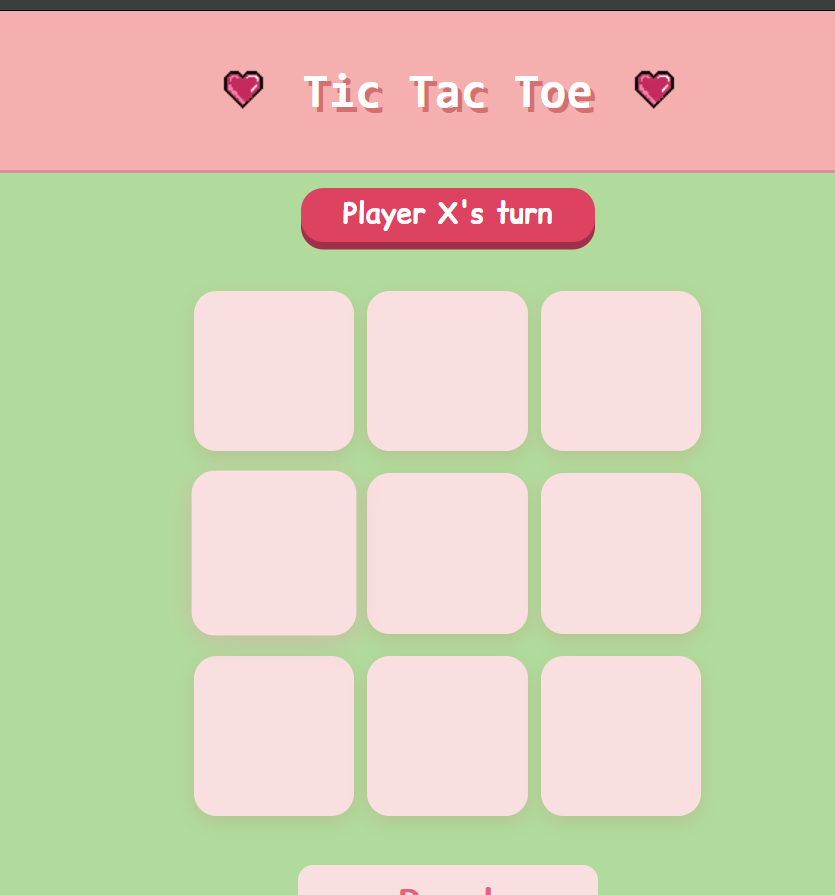
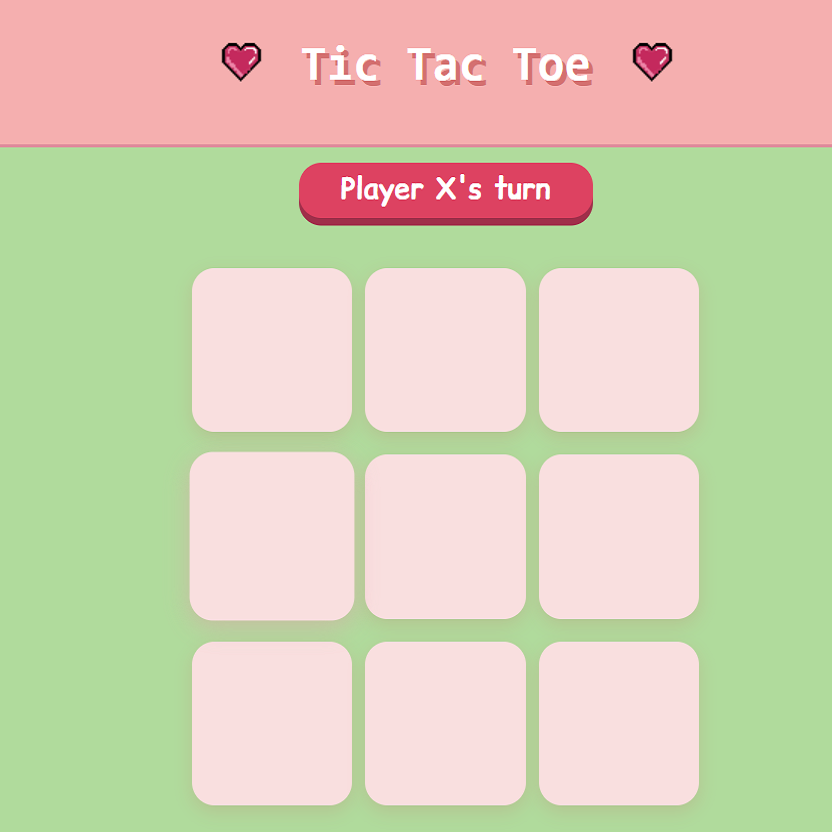
basic styling done

diff --git a/project.css b/project.css
@@ -1,3 +1,56 @@
 body{
-    
+    margin: 0;
+    background-color: rgb(236 255 235);
+  font-family: "Chewy", system-ui;
+  color: rgb(255, 255, 255);
+  padding-bottom: 60px;
+}
+
+.header{
+    margin-bottom: 25px;
+    display: flex;
+    justify-content: center;
+    gap: 25px;
+    background-color: rgb(53, 153, 48);
+      font-weight: 900;
+
+}
+.projects-list{
+    display: flex;
+    flex-direction: column;
+    align-items: center;
+
+    gap: 40px;
+}
+.projects-list a{
+    text-decoration:none;
+    color:inherit;
+}
+
+.pCard{
+    display: flex;
+    gap: 20px;
+    justify-content:space-between;
+
+    background-color: rgb(53, 153, 48);
+    padding: 35px;
+
+    border-radius: 20px;
+
+    box-shadow: 0 15px 15px rgba(53, 153, 48, 0.24);
+
+    width: 700px;
+}
+img{
+    max-width: 300px;
+    height: auto;
+    border-radius: 15px;
+}
+.pD{
+    display: flex;
+    flex-direction: column;
+    justify-content: center;
+
+    margins: 5px;
+
 }

diff --git a/project.html b/project.html
@@ -6,18 +6,15 @@
     <title>Projects</title>
     <link rel="preconnect" href="https://fonts.googleapis.com" />
     <link rel="preconnect" href="https://fonts.gstatic.com" crossorigin />
-    <link
-      href="https://fonts.googleapis.com/css2?family=Bitcount+Single:wght@100..900&family=Chewy&family=Comic+Relief:wght@400;700&family=Inter:ital,opsz,wght@0,14..32,100..900;1,14..32,100..900&family=Libre+Franklin:ital,wght@0,100..900;1,100..900&family=Roboto:ital,wght@0,100..900;1,100..900&family=Rokkitt:ital,wght@0,100..900;1,100..900&family=Sour+Gummy:ital,wght@0,100..900;1,100..900&family=Titillium+Web:ital,wght@0,200;0,300;0,400;0,600;0,700;0,900;1,200;1,300;1,400;1,600;1,700&family=Ubuntu:ital,wght@0,300;0,400;0,500;0,700;1,300;1,400;1,500;1,700&display=swap"
-      rel="stylesheet"
-    />
+    <link rel="preconnect" href="https://fonts.googleapis.com">
+<link rel="preconnect" href="https://fonts.gstatic.com" crossorigin>
+<link href="https://fonts.googleapis.com/css2?family=Bitcount+Single:wght@100..900&family=Chewy&family=Comic+Relief:wght@400;700&family=Fredoka:wght@300..700&family=Inter:ital,opsz,wght@0,14..32,100..900;1,14..32,100..900&family=Libre+Franklin:ital,wght@0,100..900;1,100..900&family=Roboto:ital,wght@0,100..900;1,100..900&family=Rokkitt:ital,wght@0,100..900;1,100..900&family=Sour+Gummy:ital,wght@0,100..900;1,100..900&family=Titillium+Web:ital,wght@0,200;0,300;0,400;0,600;0,700;0,900;1,200;1,300;1,400;1,600;1,700&family=Ubuntu:ital,wght@0,300;0,400;0,500;0,700;1,300;1,400;1,500;1,700&display=swap" rel="stylesheet">
     <link rel="stylesheet" href="project.css" />
   </head>
   <body>
-    <div class="header">
-      <img src="assets/frog.png" alt="" class="frog" />
-      <h1>Project</h1>
-      <img src="assets/frog.png" alt="" class="frog" />
-    </div>
+    <section class="header">
+      <h1>🐸 Project 🐸</h1>
+    </section>
     <div class="projects-list">
         <a href="#">
           <div class="tictactoe">
@@ -25,7 +22,7 @@
       <div class="pCard">
             <div class="img"><img src="assets/tictactoe.png" alt="" /></div>
             <div class="pD">
-              <h2>Tic Tac Toe</h2>
+              <h1>Tic Tac Toe</h1>
               <p>
                 This is a web app made to play Tic Tac Toe. I really liked the
                 color theme !!
@@ -38,8 +35,8 @@
           <div class="rockpaperscissors">
             
           <div class="pCard">
-            <div class="con-textb">
-              <h2>Rock Paper Scissors</h2>
+            <div class="pD">
+              <h1>Rock Paper Scissors</h1>
               <p>
                 Here, you can play rock paper scissors. And take any decision
                 easily.